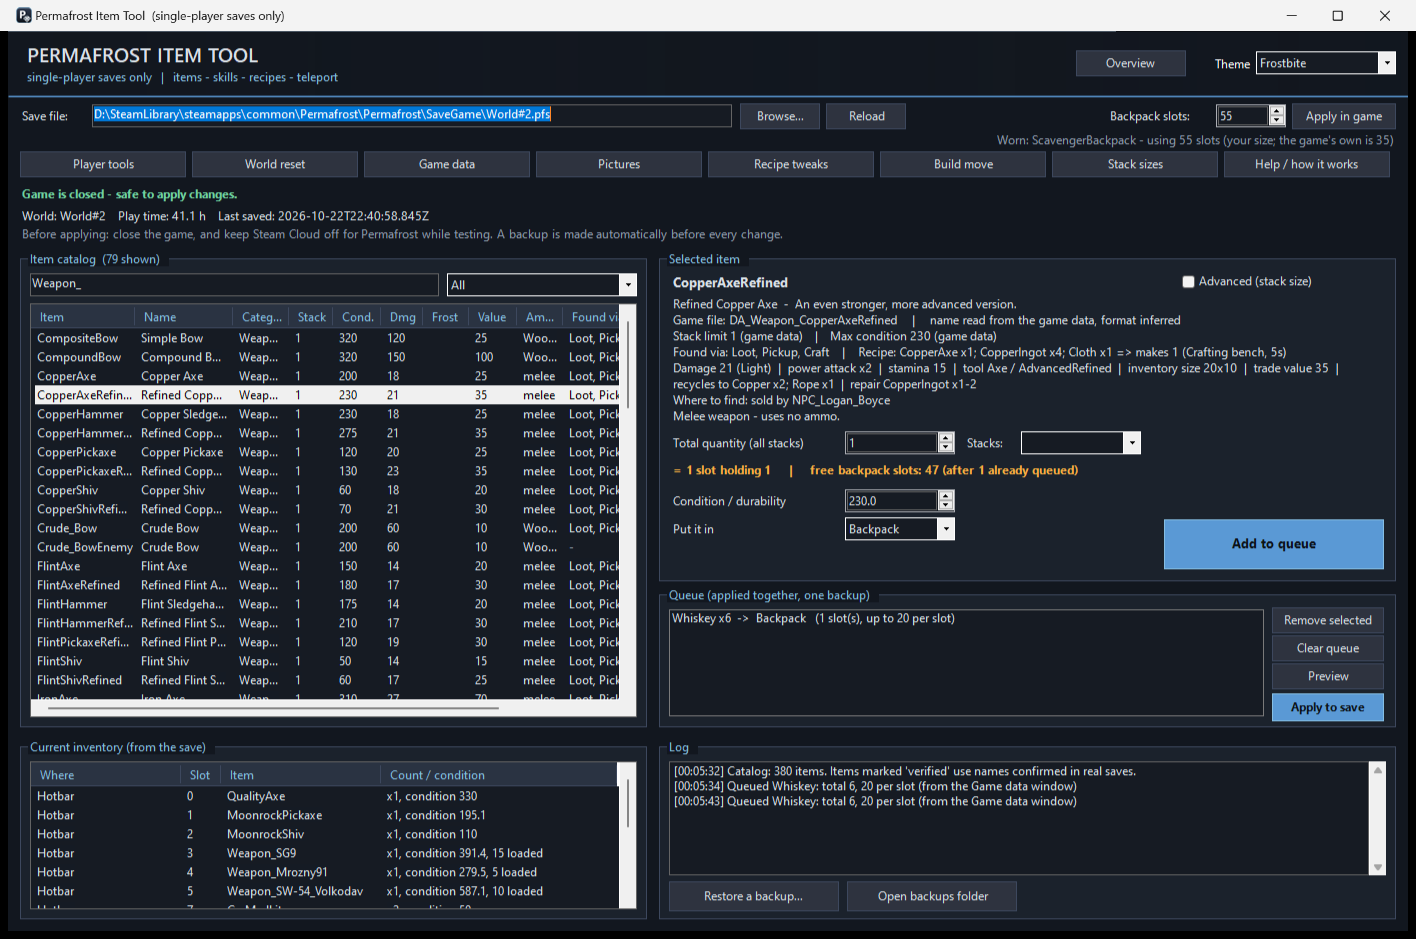
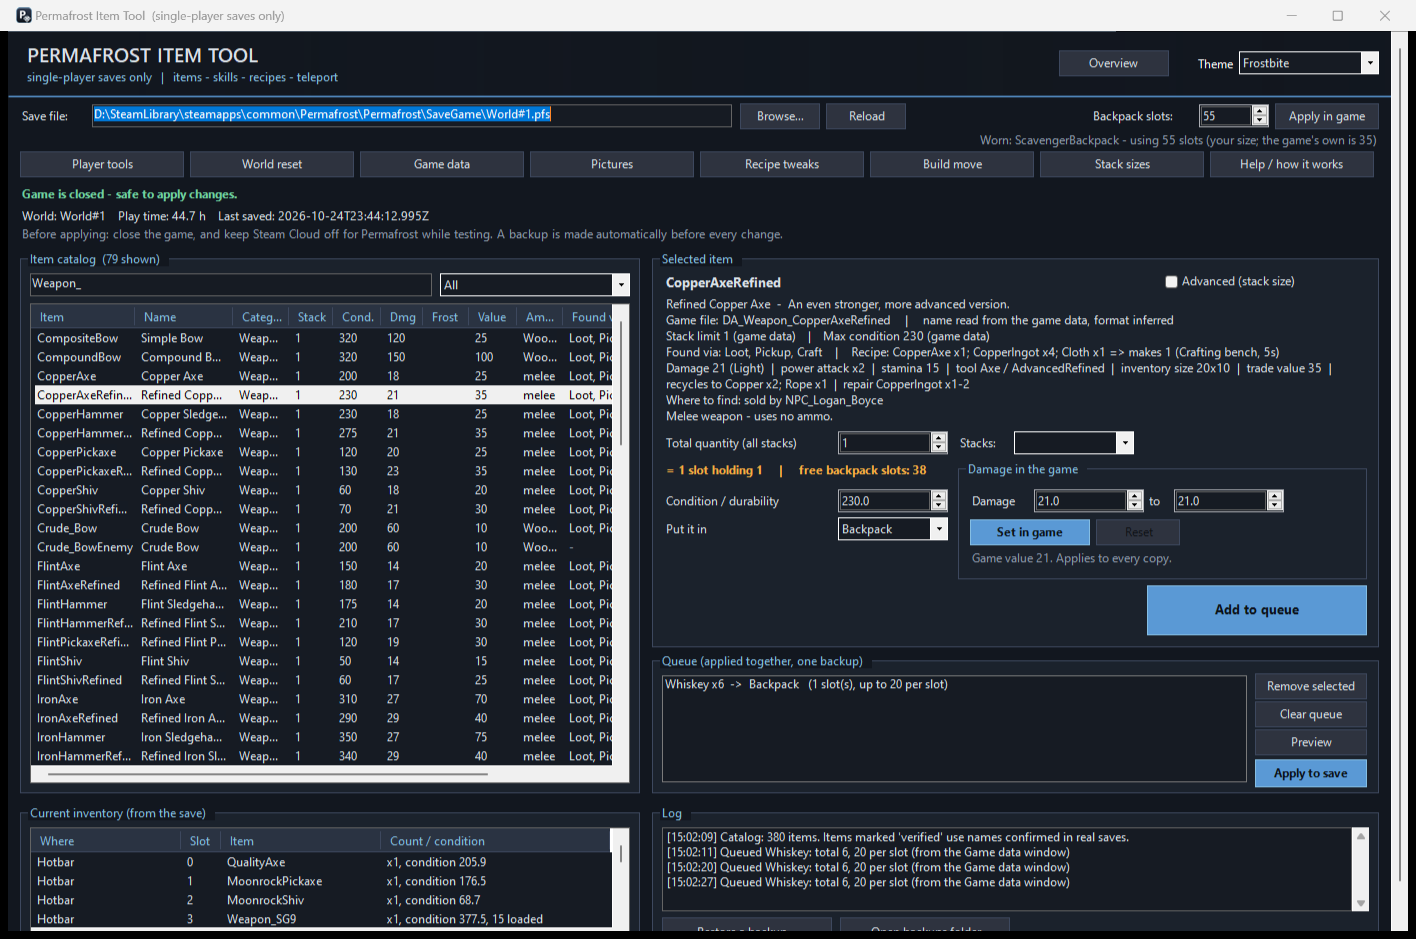
Docs: README, Help and Overview cover weapon damage, GroundSnap, the discovered map squares and the refreshed shipped map
README: intro, tour, everyday tasks (weapon damage, GroundSnap), Overview bullets, new section 12e (GroundSnap), files / uninstall / UE4SS lists, repository layout, loot pool and flight numbers; Help: intro, Selected item Damage box, GROUNDSNAP and limits, mod log folders; Overview report: last teleport, discovered squares, WeaponTweaks and GroundSnap lines. Docs screenshots: main window (Damage box) and the Teleport tab.

diff --git a/README.md b/README.md
@@ -2,7 +2,7 @@
 
 <img src="assets/app-icon.png" width="96" align="right" alt="icon">
 
-A Windows tool for **single-player** [Permafrost](https://store.steampowered.com/app/2254990/) saves. Add items to your backpack, fix a stuck quest, teleport, learn recipes, set skills, put harvested trees / ores / loot back, change crafting recipes, make your backpack bigger, stack your first aid kits, medicine and bandages, and move buildings you placed. It **finds your saves by itself** and ships with everything it needs: no exporting, no mappings, no setup.
+A Windows tool for **single-player** [Permafrost](https://store.steampowered.com/app/2254990/) saves. Add items to your backpack, fix a stuck quest, teleport, learn recipes, set skills, put harvested trees / ores / loot back, change crafting recipes, make your backpack bigger, stack your first aid kits, medicine and bandages, change how hard a weapon hits, and move buildings you placed. It **finds your saves by itself** and ships with everything it needs: no exporting, no mappings, no setup.
 
 ![Overview window: everything the tool can read from your save](docs/screenshot-overview.png)
 
@@ -27,6 +27,7 @@ A Windows tool for **single-player** [Permafrost](https://store.steampowered.com
     * [12b. Backpack size (in-game mod)](#12b-reference-backpack-size-in-game-mod)
     * [12c. Stack sizes (in-game mod)](#12c-reference-stack-sizes-in-game-mod)
     * [12d. Weapon damage (in-game mod)](#12d-reference-weapon-damage-in-game-mod)
+    * [12e. GroundSnap: the real ground after a teleport (in-game mod)](#12e-reference-groundsnap-in-game-mod)
 13. [Reference: Pictures](#13-reference-pictures)
 14. [Backups, restoring, and Steam Cloud](#14-backups-restoring-and-steam-cloud)
 15. [Files and settings](#15-files-and-settings)
@@ -104,7 +105,7 @@ The window opens maximized and follows your window size; the item catalog gets a
 | **Status lines** | Green/red game status, the world, play time and last-saved time, and a red DANGER line if stacked kits or medicine are at risk. |
 | **Pictures bar** | Shown only while there are no item pictures: **Build pictures now**, **Not now**, **Don't ask again**. |
 | **Item catalog** (left) | Every item in the game, searchable and sortable. |
-| **Selected item** (right) | Details and the quantity / condition boxes for the item you clicked. |
+| **Selected item** (right) | Details and the quantity / condition boxes for the item you clicked. For a weapon, a **Damage in the game** box sits to the right of them ([section 12d](#12d-reference-weapon-damage-in-game-mod)). |
 | **Queue** (right) | Items waiting to be added, with **Preview** and **Apply to save**. |
 | **Current inventory** (bottom left) | What your hotbar and backpack hold right now. |
 | **Log** (bottom right) | A running record of everything the tool did, plus **Restore a backup...** and **Open backups folder**. |
@@ -126,7 +127,10 @@ Close the game → search the catalog (by name or id) → click the item → set
 **Player tools → Recipes.** Tick the ones you want and press **Learn ticked recipes**.
 
 **...teleport somewhere?**
-**Player tools → Teleport.** Pick one of the game's named places (Church, Horizon, Technocrats Colony...), a fast-travel point, your bed, the crash site, something you built or a spot you saved, or click a point on **Open the map...**. The new position is written into the save (with a backup, and **Undo last teleport** puts it back); you appear there when you load. Each place lists the heights found there: if you appear inside rock, try a higher one; after a long fall, a lower one.
+**Player tools → Teleport.** Pick one of the game's named places (Church, Horizon, Technocrats Colony...), a fast-travel point, your bed, the crash site, something you built or a spot you saved, or click a point on **Open the map...**. The new position is written into the save (with a backup, and **Undo last teleport** puts it back); you appear there when you load. Each place lists the heights found there: with **Let the game fix my height when I arrive** ticked (the default), a small in-game mod then measures the real ground when you load and puts you on it, so an estimated height cannot put you under the map ([section 8](#8-reference-player-tools)). Close the game first.
+
+**...make a weapon hit harder?**
+Click the weapon in the catalog: a **Damage in the game** box appears next to the quantity and condition boxes. Type the damage, press **Set in game** and restart the game ([section 12d](#12d-reference-weapon-damage-in-game-mod)). It needs the small WeaponTweaks in-game mod (the tool offers to install it) and never touches your save.
 
 **...find out what a stuck quest is waiting for?**
 **Game data → Quests.** Pick the quest: its states and tasks are listed, and **>>** marks where your save is. The *Items this step needs* box lists what the current step asks for, and a button queues exactly those items. For a missing key or quest item, search it under **Find anything** (for example `KeyAnnas`) and queue it from there.
@@ -214,15 +218,15 @@ If a step fails, the message says whether your save was left untouched or the or
 **Overview** (top of the window) is a **read-only** report built from the save. Sections:
 
 * **World** - world name and file, play time, created / last saved, the installed game's Steam build, and the build the shipped data was made for (with a warning if the game was updated since).
-* **Character** - health, stamina, energy, hunger, body warmth, position, bed, unspent skill points.
+* **Character** - health, stamina, energy, hunger, body warmth, position, bed, unspent skill points, and your last teleport (so you can see that **Undo last teleport** is available).
 * **Skills** - the 16 skills with their levels.
 * **Inventory** - the hotbar slot by slot, and the backpack with totals per item and slots used out of the size in use (your **Backpack slots** setting while its mod is on, else the game's own; with a red DANGER line if an item sits beyond it).
 * **Recipes** - how many you know out of the game's total.
 * **Quests** - started and active quests (in-game names), unlocked regions.
 * **Buildings you placed** - how many parts, grouped by type.
-* **Explored world** - map areas loaded at least once, objects saved in them, containers found (opened / still unopened), objects used up.
+* **Explored world** - map squares you have discovered (the ones the Teleport map shades), map areas loaded at least once, objects saved in them, containers found (opened / still unopened), objects used up.
 * **Companion (dog)** - state, bond and carried items.
-* **In-game mods and settings** - whether the Recipe tweaks, Build move, BackpackSlots and StackSizes mods are installed and on, the backpack sizes you set, your Stack sizes settings and the biggest stack of each item your save holds (with a DANGER line if the mod is not on).
+* **In-game mods and settings** - whether the Recipe tweaks, Build move, BackpackSlots, StackSizes, WeaponTweaks and GroundSnap mods are installed and on, the backpack sizes you set, your Stack sizes settings and the biggest stack of each item your save holds (with a DANGER line if the mod is not on), the weapon damage you changed, and what GroundSnap did the last time you teleported.
 * **Backups of this world** - how many, the newest, and whether the starting snapshot exists.
 
 **Refresh** re-reads the save; **Copy report** copies the text.
@@ -300,7 +304,7 @@ The game never respawns trees, boulders, picked-up items or container loot. **Wo
 
 **A brand-new world with no history yet?** The tool ships a **map of untouched objects** (`catalog\pristine-world.bin`, 175 KB): every boulder, ore, breakable and world item as the game places it, recorded by flying over the whole playable map in a world nobody had played. World reset uses it as its oldest history, so even a world with no backups at all gets its mined boulders and ores back, and picked-up items too (an item is only restored from it when your save lists it as used up, because items spawn at random per world). Tested on worlds that were not used to build it, it has 98-99% of the ores, 99% of the breakables and 94-98% of the world items; the rest are objects that get a different random id in every world, which no map can know. Your own backups and your other worlds always win over it. The first time the tool opens a world that has no backup it also saves a **starting snapshot** into `Backups` (`yyyymmdd-hhmmss_BASELINE_World#N.pfs`; a read-only copy of your save, skipped while the game is running and tried again later). The snapshot is what brings back **container loot** exactly as it was and anything the shipped map does not list, so **open the tool early in a new world, before you start mining and looting.** Felled trees, partly mined boulders, harvested bushes and emptied containers can be put back with no history at all.
 
-**How it works.** The save has a record for every object of every area you have visited; a destroyed or picked-up object simply has no record any more. Felled trees are removed from the record (they stand again); partly mined boulders go back to full health; destroyed boulders and picked-up items are put back from your **earlier backups** (so keep the `Backups` folder), **from the saves of your other worlds on the same map**, **and, last, from the shipped map of untouched objects**: the same object has the same id in every world, so what another world still has untouched can be put back (ores, breakables and items only; container loot is rolled per world). A fresh world that you teleport around with *Player tools > Teleport* is a clean source for any area you care about. Looted containers get their original loot back from a backup, or the loot of another unopened container with the same loot table; if none is left in your world, a real roll from the shipped loot pool (`catalog\loot-pool.json`, about 1,500 real rolls over 33 loot groups) is used as the last resort. Quest items and keys are never re-rolled.
+**How it works.** The save has a record for every object of every area you have visited; a destroyed or picked-up object simply has no record any more. Felled trees are removed from the record (they stand again); partly mined boulders go back to full health; destroyed boulders and picked-up items are put back from your **earlier backups** (so keep the `Backups` folder), **from the saves of your other worlds on the same map**, **and, last, from the shipped map of untouched objects**: the same object has the same id in every world, so what another world still has untouched can be put back (ores, breakables and items only; container loot is rolled per world). A fresh world that you teleport around with *Player tools > Teleport* is a clean source for any area you care about. Looted containers get their original loot back from a backup, or the loot of another unopened container with the same loot table; if none is left in your world, a real roll from the shipped loot pool (`catalog\loot-pool.json`, about 1,570 real rolls over 33 loot groups) is used as the last resort. Quest items and keys are never re-rolled.
 
 Two more things the game keeps in the save are handled too:
 
@@ -367,6 +371,20 @@ Pick a weapon in the item catalog (for example the Compound Bow) and a **Damage 
 
 Ammo has no damage of its own: every arrow and bullet only has a multiplier (1.0; flares 0.2), so a hit is *weapon damage x ammo multiplier x hit zone* (a bow headshot counts double). Single-player only; very high values make fights trivial, so try small steps. The setting is kept in `weapon-tweaks.json` and written to the mod's `tweaks.lua`; what the mod did is in `WeaponTweaks.log` in its folder.
 
+## 12e. Reference: GroundSnap (in-game mod)
+
+The tool does not have the game's terrain, only **estimates** of each spot's height (from the objects the atlas flights saw: hills and buildings have several floors). A teleport that is a few metres too low puts you **under the map**; one that is too high is a long fall. In the first test of this feature on seven teleports the estimates were off by -2 to +22 m, and two of them would have put you under the map.
+
+**GroundSnap** lets the game decide. On the **Teleport** tab the box **Let the game fix my height when I arrive** is ticked by default. When you teleport to an *estimated* height (a named place, a fast-travel point, a height from the list, coordinates whose Z came from the list):
+
+1. The tool writes the teleport into the save as before (backup first) and leaves a small request for the mod. The first time, it installs the mod (**GroundSnap**, [section 16](#16-installing-ue4ss-only-for-the-in-game-mods)) into the game's `Mods` folder and adds `GroundSnap : 1` to `mods.txt` (backed up first).
+2. Start the game and load the world. When the game puts you at the requested spot, the mod **holds you in the air**, waits until the game's ground has loaded and three measurements agree, then puts you just above the real ground and lets you drop. It takes a few seconds after the world appears.
+3. It deletes the request and records what it did: the Teleport tab shows *Last time in the game*, the **Overview** lists it, and `ue4ss\Mods\GroundSnap\GroundSnap.log` has every measurement.
+
+Heights that are **real** are never changed: your bed, the crash site, things you built, your own saved spots and a Z you typed yourself, because they may be inside a building or a bunker. **Undo last teleport** also cancels a request that has not been used. Your save is not touched by the mod; to switch it off, untick the box or set `GroundSnap : 0` in `mods.txt`.
+
+Limits: the mod puts you on whatever solid surface the game reports at that spot (a roof, a ledge, or in unfinished areas a floor that is not drawn on the map), so use **Undo** if you do not like the landing. It works only for the first load after a teleport, in the world you teleported in, and needs UE4SS. It was tested in the game on a copy of a world with seven teleports (caves, a building, open ground) and all landed safely.
+
 ## 13. Reference: Pictures
 
 ![Pictures window](docs/screenshot-pictures.png)
@@ -425,7 +443,7 @@ Deleting any of the settings files just resets that setting. **`config.json`** k
 
 `GameDir` is the folder that contains the inner `Permafrost` folder; `ExportRoot` (only for [section 18](#18-advanced-rebuild-the-data-from-your-own-game-files)) is the folder that **contains** FModel's `Permafrost` export folder.
 
-**Moving the tool:** close it, move the whole folder (keep `Backups` with it), and start the `.cmd` from the new place. **Uninstalling:** delete the folder; the only things outside it are the optional UE4SS mods (`RecipeTweaks`, `BuildMove`, `BackpackSlots`, `StackSizes` in `...\ue4ss\Mods`, listed in `mods.txt`). To remove a mod, set its line in `mods.txt` to `0` (or delete its folder).
+**Moving the tool:** close it, move the whole folder (keep `Backups` with it), and start the `.cmd` from the new place. **Uninstalling:** delete the folder; the only things outside it are the optional UE4SS mods (`RecipeTweaks`, `BuildMove`, `BackpackSlots`, `StackSizes`, `WeaponTweaks`, `GroundSnap` in `...\ue4ss\Mods`, listed in `mods.txt`). To remove a mod, set its line in `mods.txt` to `0` (or delete its folder).
 
 ## 16. Installing UE4SS (only for the in-game mods)
 
@@ -433,7 +451,7 @@ Deleting any of the settings files just resets that setting. **`config.json`** k
 
 1. Download the UE4SS release and follow its documentation: the files go next to `Permafrost-Win64-Shipping.exe`, in `Permafrost\Binaries\Win64` (you end up with `dwmapi.dll` there and a `ue4ss` folder).
 2. Start the game once to check it still runs.
-3. The tool installs each mod for you (**Install / update mod** in Recipe tweaks, **Build move**, **Apply in game** next to Backpack slots, **Stack sizes**) into `...\ue4ss\Mods\` for you and add the line to `mods.txt` (a backup of `mods.txt` is made). Restart the game after installing or updating a mod.
+3. The tool installs each mod for you (**Install / update mod** in Recipe tweaks, **Build move**, **Apply in game** next to Backpack slots, **Stack sizes**, **Set in game** in the Damage box, and the first teleport with GroundSnap ticked) into `...\ue4ss\Mods\` for you and add the line to `mods.txt` (a backup of `mods.txt` is made). Restart the game after installing or updating a mod.
 
 If the game ever fails to start after a game update, remove `dwmapi.dll` from `Binaries\Win64` to start it normally (see [section 17](#17-after-a-game-update)).
 
@@ -575,7 +593,7 @@ PowerShell traps seen in this code base (worth knowing before you edit): a funct
 * `PermafrostItemTool.ps1` - the main window (its `Do-Layout` positions everything from the window size and turns on scroll bars when the window is small). `SaveCore.ps1` - reading and writing the `.pfs` save (the inventory exists in **three synced copies** inside it; all are patched together and verified). `PlayerCore.ps1` / `PlayerTools.ps1` - player data and its window. `OverviewUI.ps1` - the read-only report. `WorldPicker.ps1` - the world list. `GameData.ps1` - the data browser. `RecipeTweaks.ps1` - the recipe editor. `WorldCore.ps1` / `WorldReset.ps1` / `WorldResetUI.ps1` - the world reset (reading and rewriting the world block of the save, which is checked to round-trip byte for byte; planning; the window). `BuildMove.ps1` - installs the Build move mod. `Theme.ps1` - colours.
 * `GameFiles.ps1` / `PicturesUI.ps1` / `TextureDecode.ps1` - read-only access to the installed game's own packed files (the IoStore container, Oodle-compressed) and decoding of its textures into small PNGs.
 * `Paths.ps1` - finds your game folder and save (and FModel's export for the advanced rebuild); reads `config.json`.
-* `items.json`, `catalog\`, `datapack.json` - the data pack. `catalog\pristine-world.bin` is the shipped map of untouched ore / breakable / item records, built by `Build-Pristine.ps1` (which also writes `loot-pool.json`) from a save that was flown over the whole map with the `AtlasDumpMod` (see its README). `catalog\places.csv` (the game's named places and fast-travel points, positions read from its level data by `Build-Places.ps1` with `MapCore.ps1`), `catalog\terrain-levels.csv` and `catalog\map-points.csv` (heights and dots from the same flights, built by `Build-Terrain.ps1`) feed the Teleport tab and its map (`TeleportMap.ps1`). `Build-WorldMap.ps1` (with `WorldMapDecode.ps1`) puts the game's map picture back together from the installed game for that map; the Pictures window runs it.
+* `items.json`, `catalog\`, `datapack.json` - the data pack. `catalog\pristine-world.bin` is the shipped map of untouched ore / breakable / item records, built by `Build-Pristine.ps1` (which also writes `loot-pool.json`) from a save that was flown over the whole map with the `AtlasDumpMod` (see its README; two flights, the second at 75 m spacing, gave 2,761 records in 491 areas). `catalog\places.csv` (the game's named places and fast-travel points, positions read from its level data by `Build-Places.ps1` with `MapCore.ps1`), `catalog\terrain-levels.csv` and `catalog\map-points.csv` (heights and dots from the same flights, built by `Build-Terrain.ps1`) feed the Teleport tab and its map (`TeleportMap.ps1`). `Build-WorldMap.ps1` (with `WorldMapDecode.ps1`) puts the game's map picture back together from the installed game for that map; the Pictures window runs it.
 * `Build-*.ps1` - turn FModel's exports into `items.json` and `catalog\*.csv`. `Build-Everything.ps1` runs them all and then `Build-Finalize.ps1`; `Rebuild-All.ps1` runs the JSON-based ones. `Make-Release.ps1` builds the release ZIP.
 * `RecipeTweaksMod\main.lua` - the in-game recipe mod. `BuildMoveMod\main.lua` - the in-game Build move mod. `GroundSnapMod\main.lua` - the in-game mod that puts you on the real ground after a teleport (`GroundSnap.ps1` installs it and writes its request). `WeaponTweaksMod\main.lua` - the in-game weapon damage mod (`WeaponTweaks.ps1` installs it and writes its `tweaks.lua`). `StackSizesMod\main.lua` - the in-game stack sizes mod (`StackTweaks.ps1` installs it and writes its `tweaks.lua`). `BackpackSlotsMod\main.lua` - the in-game backpack size mod (`BackpackTweaks.ps1` installs it and writes its `tweaks.lua`). `UE4SSMods\DumpUsmapNative` - the F9 mappings helper.
 * `docs\` - screenshots and the announcement text.
